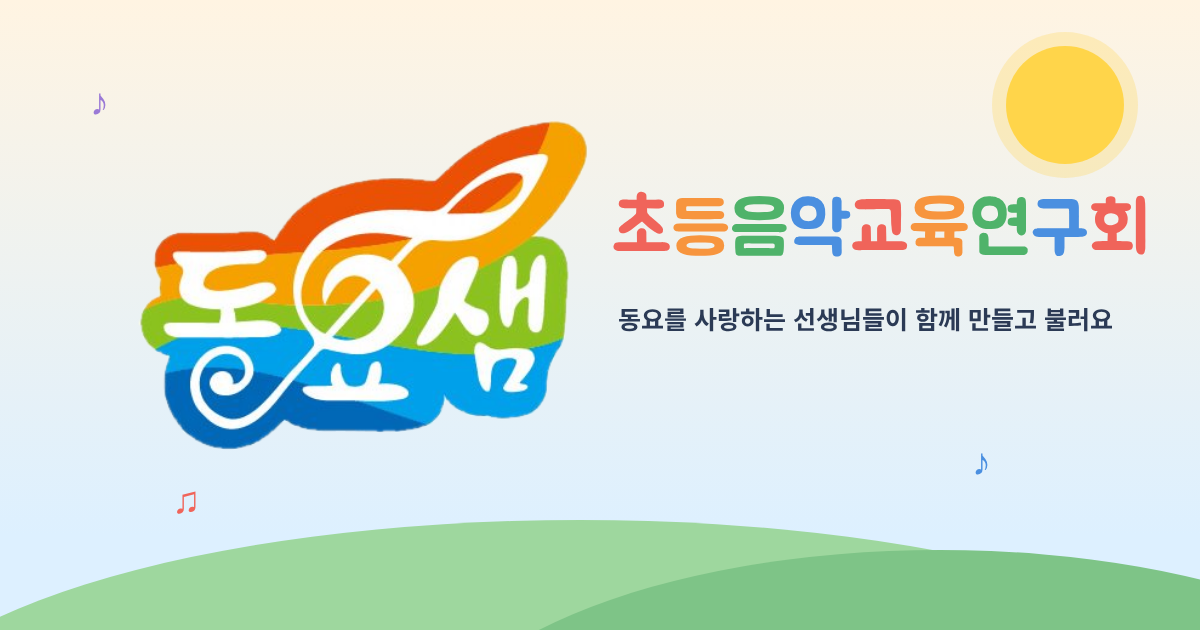
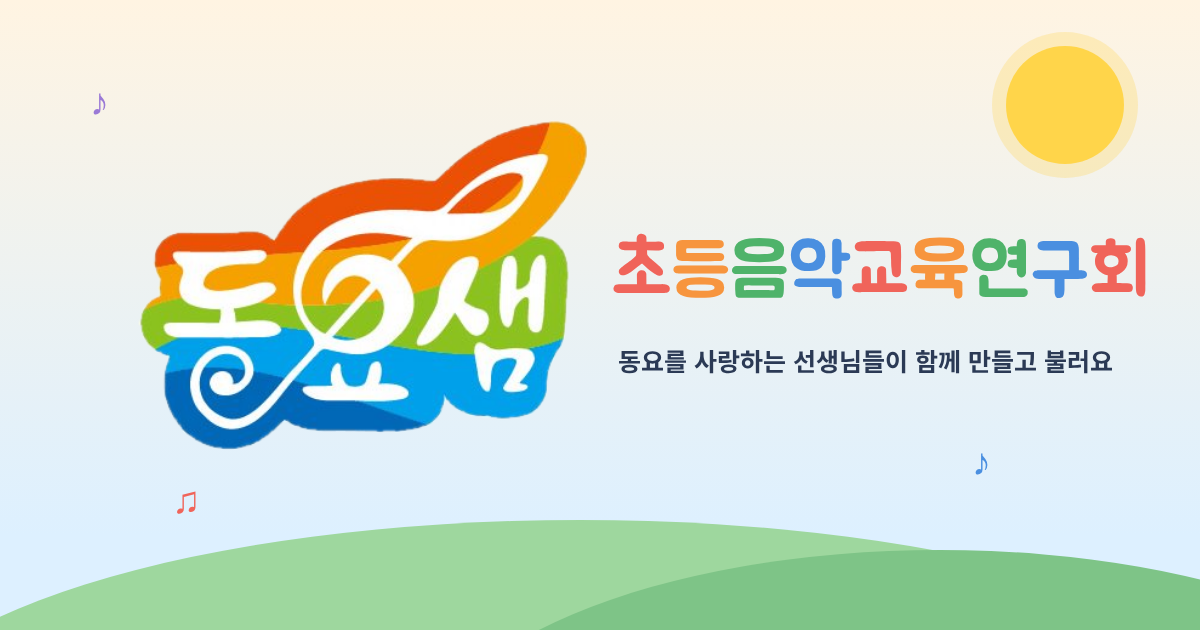
미리보기 그림: 오른쪽 글씨를 가운데 쪽으로 내림
Claude-Session: https://claude.ai/code/session_015AYnNX8KoEyNuHmrw9BxDQ

Changed region(s): [[0.4933, 0.3016, 0.9558, 0.6032]]

diff --git a/index.html b/index.html
@@ -10,7 +10,7 @@
 <meta property="og:title" content="동요샘 · 초등음악교육연구회">
 <meta property="og:description" content="선생님이 짓고 교실이 함께 부르는 동요. 동요샘 노래상자에서 전국 교실이 함께 노래하고 도장을 찍어요.">
 <meta property="og:url" content="https://dongyossam.github.io/">
-<meta property="og:image" content="https://dongyossam.github.io/img/og-home.png">
+<meta property="og:image" content="https://dongyossam.github.io/img/og-home.png?v=2">
 <meta property="og:image:width" content="1200">
 <meta property="og:image:height" content="630">
 <meta property="og:locale" content="ko_KR">
